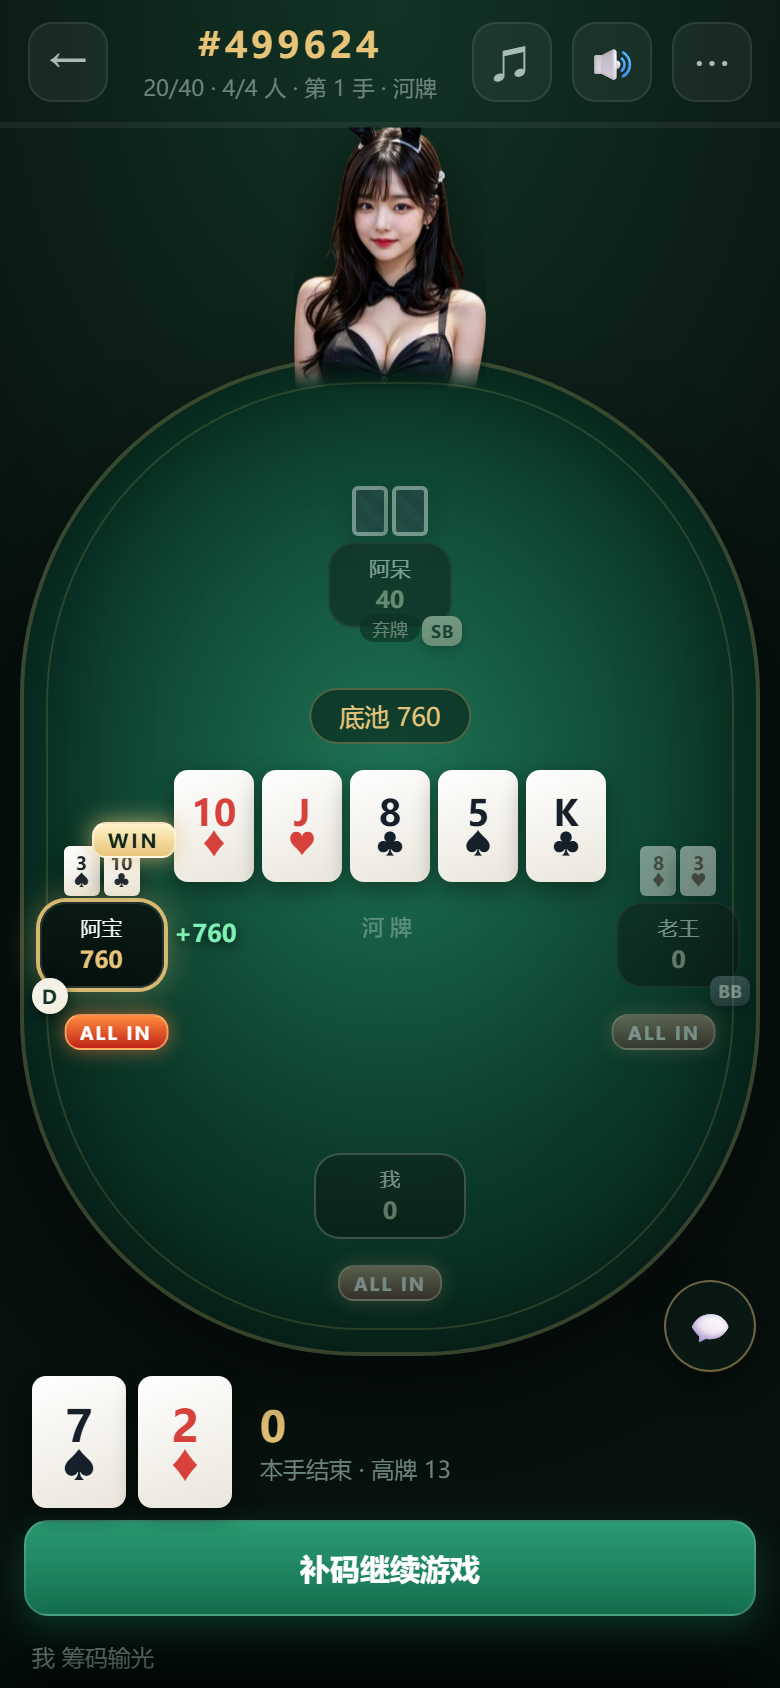
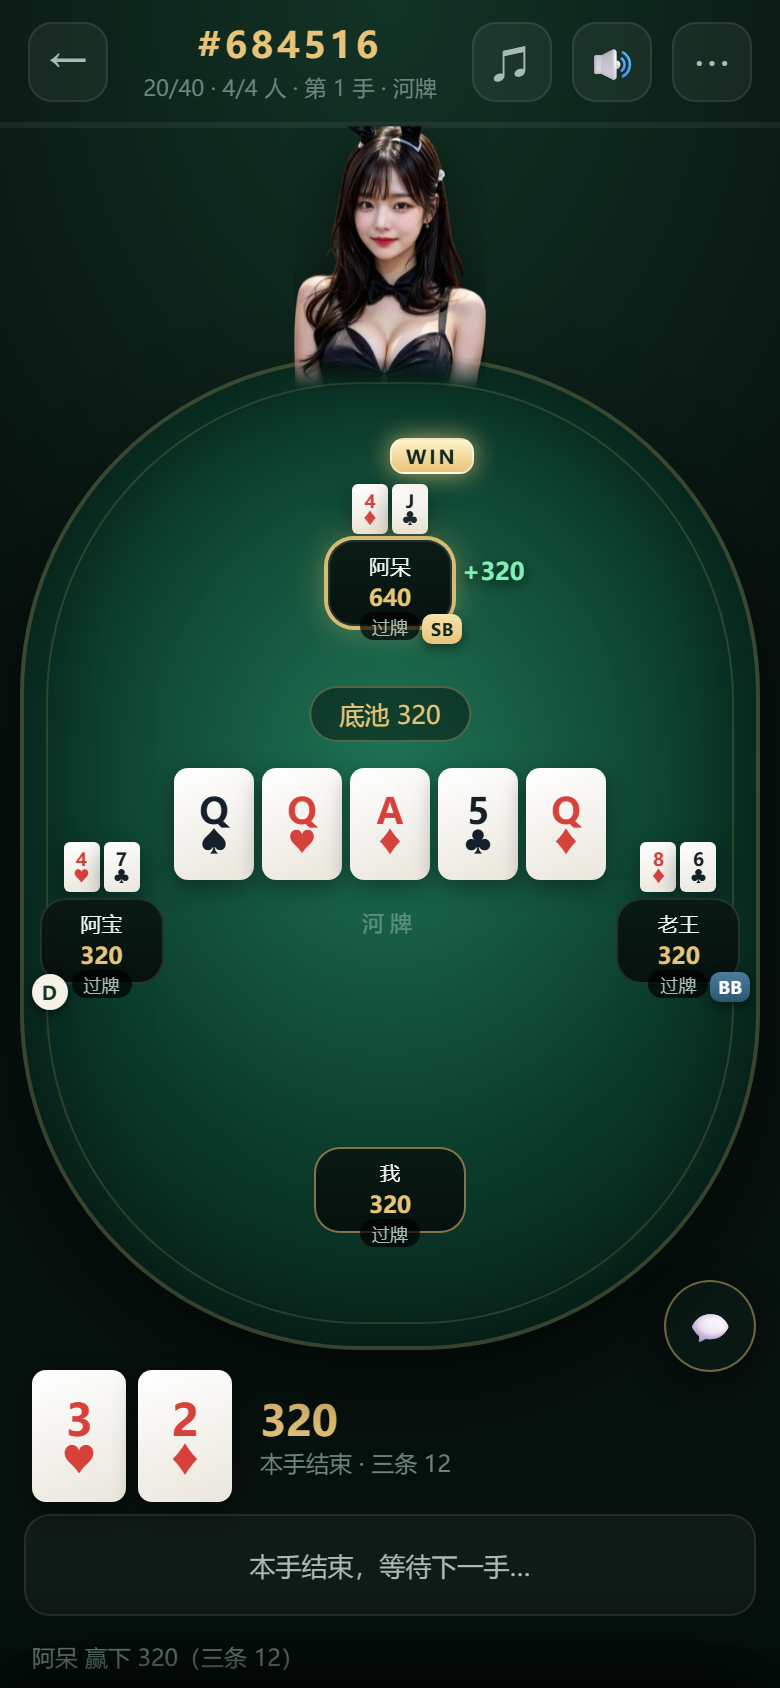
fix: WIN 徽章移到赢家底牌正上方；公共牌落地后才逐张翻开
- web: WIN 徽章从座位右上角改为底牌正上方居中（bottom: calc(100% + 4px)），不再压住牌面
- web: 公共牌新增 "pending" 阶段——牌先扣着，飞到牌位后再翻面；翻完稍停才发下一张
  （实测：发牌过程中最多同时扣着 3 张，逐张翻开；WIN 底边 416px、底牌顶边 420px，不重叠）
- docs: 说明与截图同步

diff --git a/coco_dezhou/web/js/app.js b/coco_dezhou/web/js/app.js
@@ -5,7 +5,7 @@
 
 import { Net } from './net.js';
 import { audio, TRACKS } from './audio.js';
-import { flyCard, pushChips, collectChips, revealTableCards, dealerDeal } from './fx.js';
+import { flyCard, pushChips, collectChips, revealTableCards, dealerDeal, reduceMotion } from './fx.js';
 import { evaluate, RANK_NAME, SUIT_SYMBOL } from '/shared/cards.mjs';
 
 const $ = (id) => document.getElementById(id);
@@ -30,6 +30,7 @@ const S = {
   histOpen: new Set(),
   logSeq: 0,
   wasMyTurn: false,
+  boardDealFrom: -1,
   chat: [],
   chatUnread: 0,
 };
@@ -312,7 +313,9 @@ function renderBoard(v) {
   for (let i = 0; i < 5; i++) {
     if (cards[i]) {
       const c = cardEl(cards[i]);
-      if (i >= S.boardCount) c.classList.add('anim');
+      // 正在"发牌中"的牌先扣着，等飞到位再翻开
+      if (S.boardDealFrom >= 0 && i >= S.boardDealFrom) c.classList.add('pending');
+      else if (i >= S.boardCount) c.classList.add('anim');
       board.appendChild(c);
     } else {
       board.appendChild(slotEl());
@@ -1104,20 +1107,25 @@ function runFx(prev, next) {
     }
   }
 
-  // 2. 公共牌：翻牌三张一起发，转牌 / 河牌再一张一张来
-  if (next.handNo === prev.handNo && next.board.length > prev.board.length) {
+  // 2. 公共牌：一张一张飞到桌面，落地后再翻面亮牌（等上一张翻完才发下一张）
+  if (S.boardDealFrom >= 0) {
     dealerDeal();
     const slots = document.querySelectorAll('#board .pcard');
-    const from = prev.board.length;
-    const to = next.board.length;
-    let t = 120;
-    for (let i = from; i < to; i++) {
-      const isFlop = i < 3;
-      if (i > from && !isFlop) t += 240; // 转牌/河牌之前停一下
+    let t = 160;
+    for (let i = S.boardDealFrom; i < next.board.length; i++) {
       const slot = slots[i];
-      if (slot) flyCard(slot, { face: next.board[i], delay: t, duration: 420 });
-      t += isFlop ? 150 : 320;
+      if (!slot) continue;
+      const flyAt = t;
+      const landAt = flyAt + 400;
+      setTimeout(() => flyCard(slot, { face: next.board[i], duration: 400 }), flyAt);
+      setTimeout(() => {
+        slot.classList.remove('pending');
+        slot.classList.add('flip-in');
+        audio.play('deal');
+      }, landAt + 20);
+      t = landAt + 330; // 翻完停一下，再发下一张
     }
+    S.boardDealFrom = -1;
   }
 
   // 3. 跟注/加注：筹码先堆在自己面前（落在自己的注额上）
@@ -1299,6 +1307,9 @@ function initNet() {
       showScreen('table');
       closeSheets();
     }
+    // 新出现的公共牌需要"飞过去 + 翻开"的动画（先扣着，落地再翻）
+    const boardAdded = prev && prev.handNo === S.view.handNo && S.view.board.length > prev.board.length;
+    S.boardDealFrom = boardAdded && !reduceMotion ? prev.board.length : -1;
     renderTable();
     runFx(prev, S.view);
     // 对局记录面板开着时，每手结束后自动刷新

diff --git a/coco_dezhou/web/css/style.css b/coco_dezhou/web/css/style.css
@@ -554,6 +554,13 @@ input[type=number] { -moz-appearance: textfield; }
   background: rgba(255, 255, 255, 0.05);
   box-shadow: inset 0 0 0 1px rgba(255, 255, 255, 0.08);
 }
+/* 发牌途中先扣着，落地再翻开 */
+.board .pcard.pending {
+  background: repeating-linear-gradient(45deg, #1c4f7a 0 5px, #17456b 5px 10px);
+  border: 2px solid #e9eef2;
+}
+.board .pcard.pending .rk,
+.board .pcard.pending .st { opacity: 0; }
 
 /* 我的区域 */
 .me-area {
@@ -977,11 +984,12 @@ input[type=range].raise-range::-webkit-slider-thumb {
 .seat.chip-left .allin-badge { transform: translateX(-64%); }
 .seat.chip-right .allin-badge { transform: translateX(-36%); }
 
-/* 赢家：方框右上角 WIN + 右侧 +筹码 */
+/* 赢家：牌的正上方 WIN + 右侧 +筹码（WIN 放在底牌上面，不压牌面） */
 .win-badge {
   position: absolute;
-  right: -6px;
-  top: -11px;
+  left: 50%;
+  bottom: calc(100% + 4px);
+  transform: translateX(-50%);
   padding: 2px 7px;
   border-radius: 7px;
   font-size: 9.5px;

diff --git a/coco_dezhou/web/js/fx.js b/coco_dezhou/web/js/fx.js
@@ -5,7 +5,8 @@
 
 import { RANK_NAME, SUIT_SYMBOL } from '/shared/cards.mjs';
 
-const reduceMotion = !!(window.matchMedia && window.matchMedia('(prefers-reduced-motion: reduce)').matches);
+const reducedMotion = !!(window.matchMedia && window.matchMedia('(prefers-reduced-motion: reduce)').matches);
+export const reduceMotion = reducedMotion;
 
 const rect = (el) => (el ? el.getBoundingClientRect() : null);
 

diff --git a/coco_dezhou/README.md b/coco_dezhou/README.md
@@ -86,11 +86,11 @@ npm run bots
 - 结算：主池 + 多层边池、平分底池、奇数筹码按庄家后顺序分配、A2345 顺子、7 选 5 最佳牌型与中文牌型名
 - 房间设置新增「**超时自动弃牌**」开关（默认开）：时间到一律弃牌；关闭后"无需跟注时自动过牌"。**连续 3 次超时自动旁观**，不再占着座位让别人干等
 - 每步倒计时进度条，超时自动行动
-- 摊牌自动亮牌，**不弹结算弹窗**：赢家座位右上角亮起 `WIN`、右侧显示 `+筹码数`，其余人的输赢在对局记录里看；本手未参与的人等下一手
+- 摊牌自动亮牌，**不弹结算弹窗**：赢家**底牌正上方**亮起 `WIN`、座位右侧显示 `+筹码数`（不会压住牌面），其余人的输赢在对局记录里看；本手未参与的人等下一手
 - 座位牌右下角标记本手**小盲 `SB` / 大盲 `BB`**，庄家按钮 `D` 在左下角；全下玩家的 `ALL IN` 徽章挂在它俩下方，互不遮挡
 - **房间聊天**：牌桌右下角的 💬 打开聊天面板，边打牌边说话；有未读时按钮上出现红色角标；面板里能看到**完整聊天记录**（含谁进出了房间，保留最近 200 条），历史记录也能通过 `GET /api/rooms/:code/chat` 取到
 - **背景音乐与音效**：全部用 WebAudio 现场合成，不加载音频文件。音乐有 **3 段可切换的爵士**（爵士酒廊 / 蓝调酒吧 / 巴萨诺瓦，点顶栏 **♫** 选曲或关闭），音效用 **🔊** 开关：发牌、筹码、过牌、弃牌、加注、全下、赢/输、轮到你、新消息
-- **桌面动画**：桌沿上方站着荷官（用的是 `web/img/dealer.webp`，白底已抠掉，可整张替换；尺寸 96×132，图片顶端在思考进度条下方，不会遮挡），开牌时**一张一张**慢发底牌、翻牌三张连发、转牌/河牌单发；跟注/加注的筹码**先堆在自己面前**，一轮结束再一起收进底池；全下的人亮起「ALL IN」徽章（无火苗）；摊牌时底牌翻面、底池筹码飞向赢家
+- **桌面动画**：桌沿上方站着荷官（用的是 `web/img/dealer.webp`，白底已抠掉，可整张替换；尺寸 96×132，图片顶端在思考进度条下方，不会遮挡），开牌时**一张一张**慢发底牌；公共牌也是**从荷官手里飞过去、落到牌位后才翻面**，一张翻完再发下一张；跟注/加注的筹码**先堆在自己面前**，一轮结束再一起收进底池；全下的人亮起「ALL IN」徽章（无火苗，且在 SB/BB 标记下方）；摊牌时底牌翻面、底池筹码飞向赢家
   （系统开启「减少动态效果」时自动只保留静态效果）
 - **对局记录**（房间 ⋯ 菜单 → 对局记录）：每手流水（公共牌、赢家、牌型、底池）可展开看每个人本手的 `剩余 → 剩余（输赢）`；「玩家账本」页显示每人的 **买入（起始筹码 + 补码）/ 当前筹码 / 净输赢**，点开可看逐手输赢明细
 - 本地实时牌力提示（"两对 K"）
